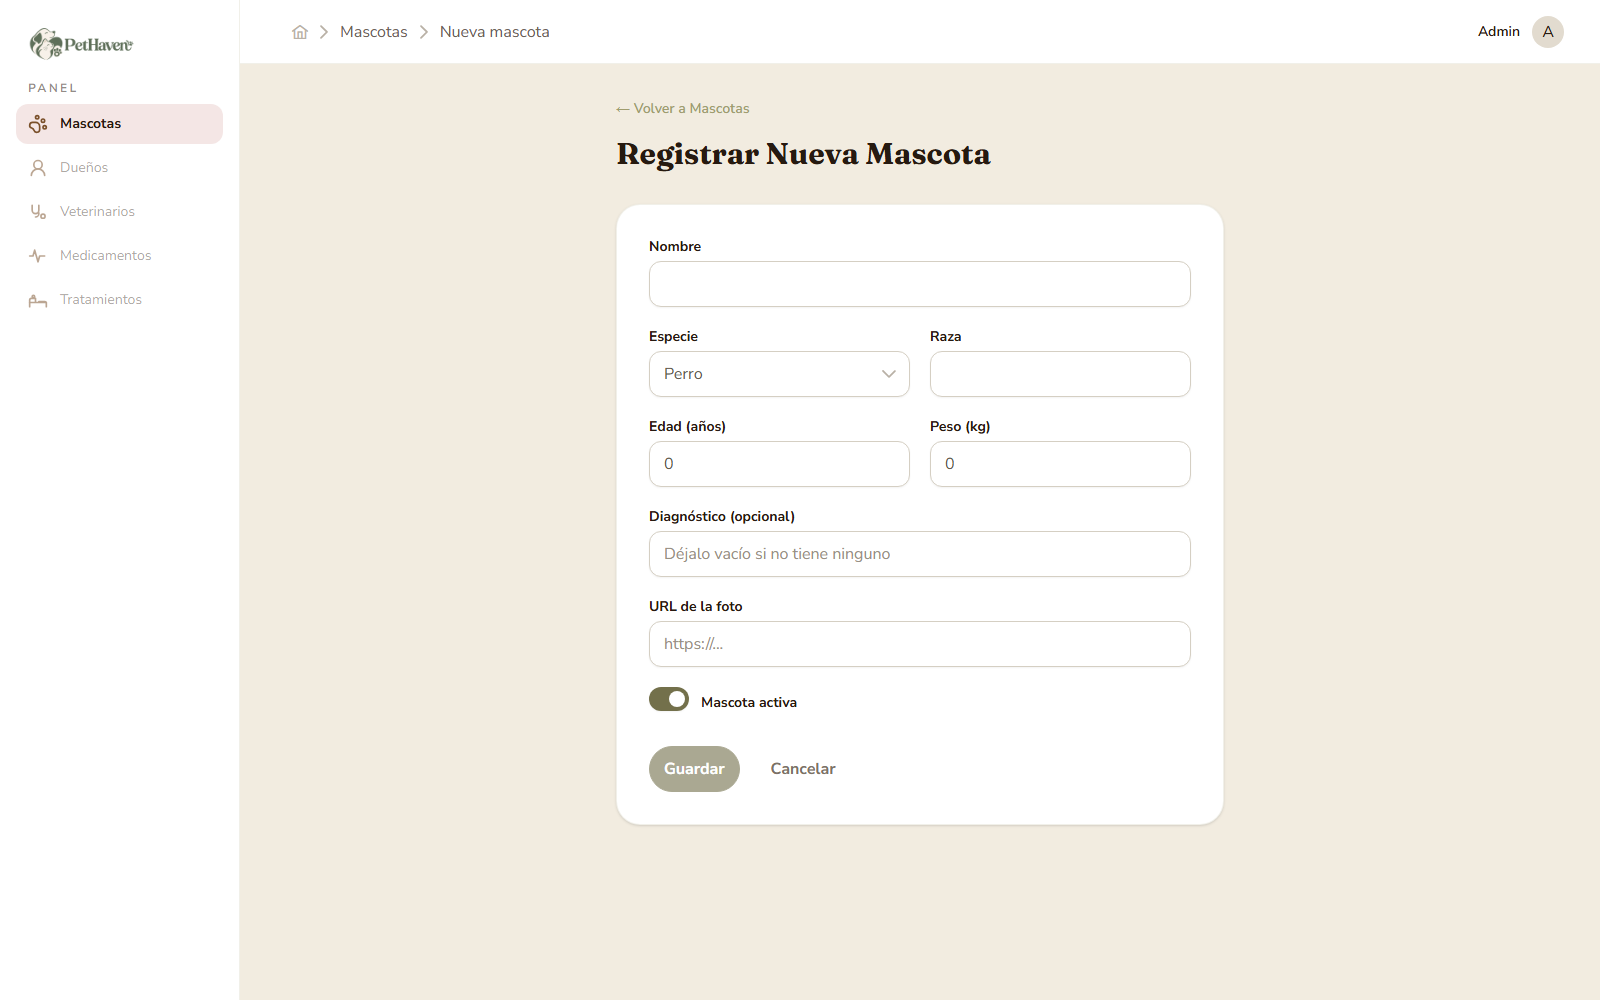
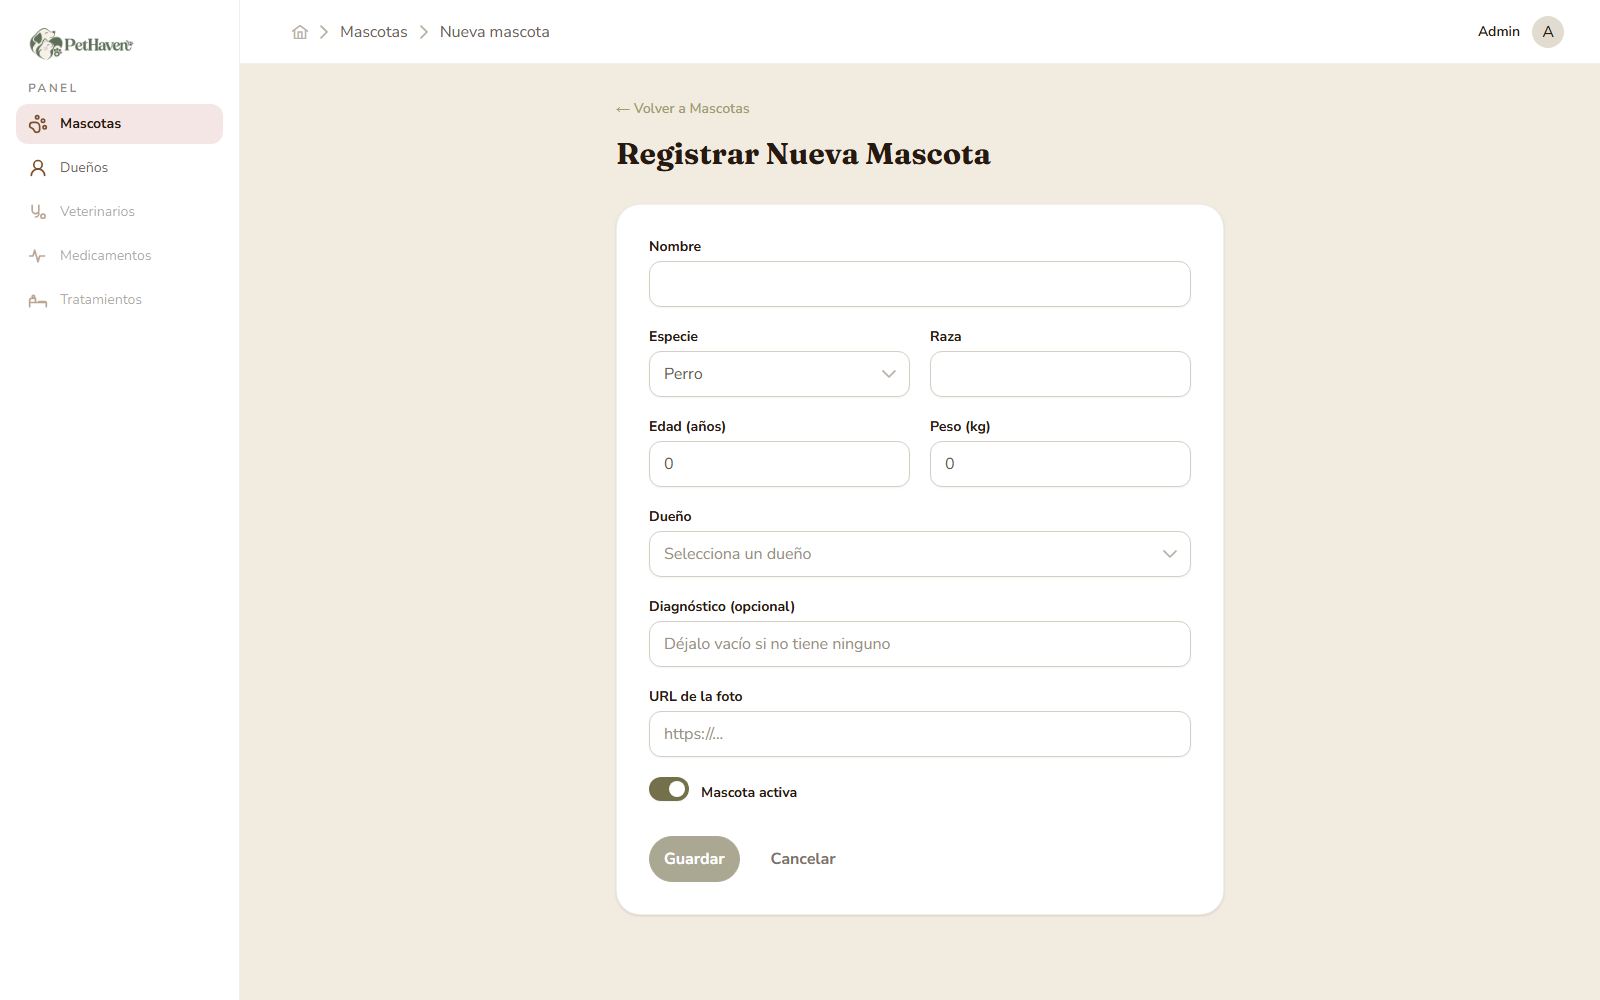
Update README with owner module details and project progress

diff --git a/README.md b/README.md
@@ -52,13 +52,13 @@ El objetivo es dejar atrás el renderizado en el servidor: un solo frontend Angu
 | Pieza | Hoy | Objetivo |
 |---|---|---|
 | Backend (`src/`) | Spring MVC + vistas Thymeleaf | API REST consumida por la SPA |
-| Frontend (`frontend/`) | Demo funcional con datos en memoria | Único frontend de la aplicación |
+| Frontend (`frontend/`) | Demo funcional (mascotas y dueños) con datos en memoria | Único frontend de la aplicación |
 
 **Fases:**
 
-- [x] **Demo funcional** — landing portada a Angular y dashboard con el módulo de mascotas (listado, detalle, registro, edición y activar/desactivar) sobre datos de prueba en memoria.
+- [x] **Demo funcional** — landing portada a Angular y dashboard con los módulos de mascotas y dueños (listado, detalle, registro y edición) sobre datos de prueba en memoria; incluye activar/desactivar mascotas, eliminación de dueños en cascada y vínculos entre fichas.
 - [ ] **API REST** — exponer los recursos del backend y conectarlos desde Angular con `HttpClient` + RxJS.
-- [ ] **Módulos restantes** — dueños, veterinarios, medicamentos, tratamientos y KPIs en el dashboard.
+- [ ] **Módulos restantes** — veterinarios, medicamentos, tratamientos y KPIs en el dashboard.
 - [ ] **Retiro de Thymeleaf** — cuando la SPA cubra toda la operación, las vistas de servidor salen del repositorio.
 
 <div align="center">
@@ -91,8 +91,10 @@ El objetivo es dejar atrás el renderizado en el servidor: un solo frontend Angu
 - [x] Dashboard con layout propio (sidebar y topbar) e inicio
 - [x] Módulo de mascotas: listado con búsqueda, filtro por especie y paginación (PrimeNG Table)
 - [x] Detalle, registro y edición de mascotas, con activar/desactivar
+- [x] Módulo de dueños: listado con búsqueda por nombre o documento y paginación; ficha con sus mascotas; registro, edición y eliminación en cascada
+- [x] Vínculo mascota ↔ dueño: selector de dueño en el formulario de mascota, columna «Dueño» en el listado y navegación entre fichas
 - [ ] Conexión con el backend vía API REST (`HttpClient` + RxJS)
-- [ ] Módulos restantes: dueños, veterinarios, medicamentos, tratamientos y KPIs
+- [ ] Módulos restantes: veterinarios, medicamentos, tratamientos y KPIs
 
 > El demo funciona con datos de prueba en memoria; no requiere el backend encendido. Ver [Estado de la migración](#estado-de-la-migración).
 
@@ -113,7 +115,7 @@ El objetivo es dejar atrás el renderizado en el servidor: un solo frontend Angu
 | Carga de medicamentos | Importar el inventario de drogas desde un archivo al iniciar el programa (Feature 09) |
 | Tratamientos | Administrar una droga a una mascota y descontar el inventario disponible (Feature 10) |
 | Historial médico | Consultar la lista de tratamientos dados a cada mascota (Feature 11) |
-| SPA en Angular | En progreso — demo funcional (landing + mascotas); pendiente integración con la API REST y módulos restantes |
+| SPA en Angular | En progreso — demo funcional (landing + mascotas + dueños); pendiente integración con la API REST y módulos restantes |
 
 **Entrega 3**
 
@@ -169,9 +171,9 @@ pethaven/
 │       │   ├── models/            # Interfaces de dominio (mascota, dueño, droga…)
 │       │   ├── pages/
 │       │   │   ├── landing/       # Landing page (secciones + directivas de animación)
-│       │   │   ├── dashboard/     # Panel: layout, inicio y módulo de mascotas
+│       │   │   ├── dashboard/     # Panel: layout, inicio y módulos de mascotas y dueños
 │       │   │   └── portal-placeholder/  # Placeholders de /login y /vet/login
-│       │   ├── services/          # Servicios (PetService sobre datos en memoria)
+│       │   ├── services/          # Servicios (mascotas y dueños sobre datos en memoria)
 │       │   ├── theme/             # Preset PrimeNG de la marca
 │       │   ├── app.config.ts      # Providers, locale es-CO y tema
 │       │   └── app.routes.ts      # Rutas de la SPA
@@ -283,6 +285,10 @@ La base de datos expone una consola web para explorar tablas y datos:
 | `/dashboard/pets/add` | Registrar una mascota |
 | `/dashboard/pets/update/:id` | Editar una mascota |
 | `/dashboard/pets/:id` | Detalle de una mascota |
+| `/dashboard/owners` | Listado de dueños |
+| `/dashboard/owners/add` | Registrar un dueño |
+| `/dashboard/owners/update/:id` | Editar un dueño |
+| `/dashboard/owners/:id` | Detalle de un dueño y sus mascotas |
 
 ---
 
